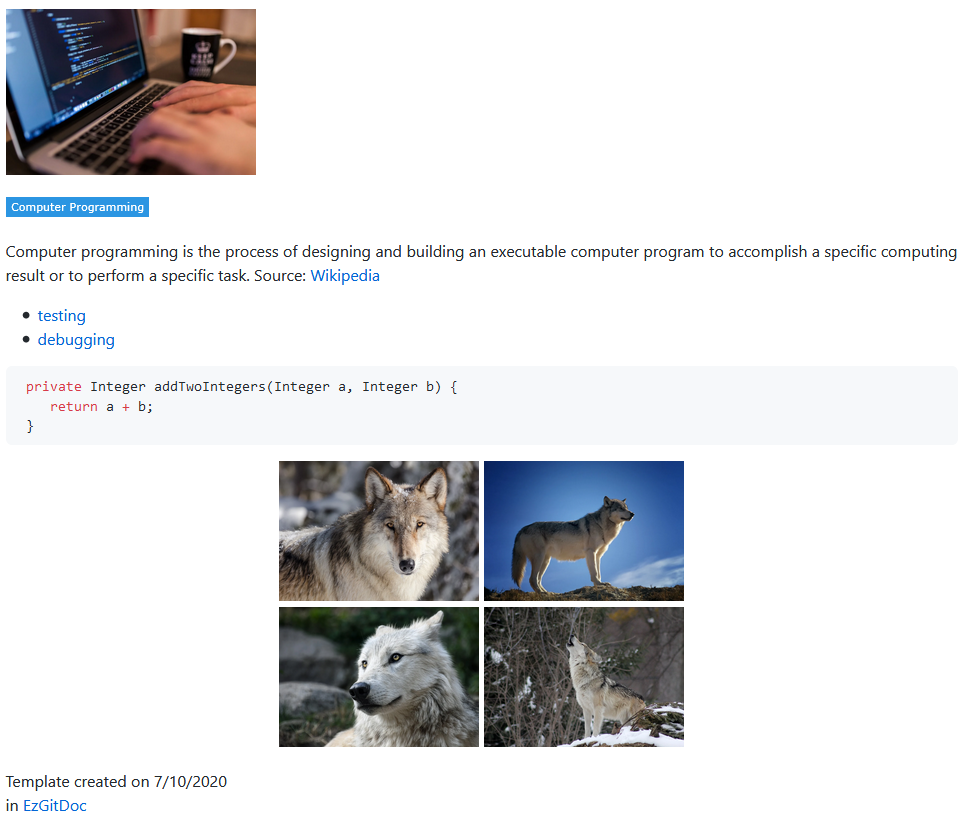
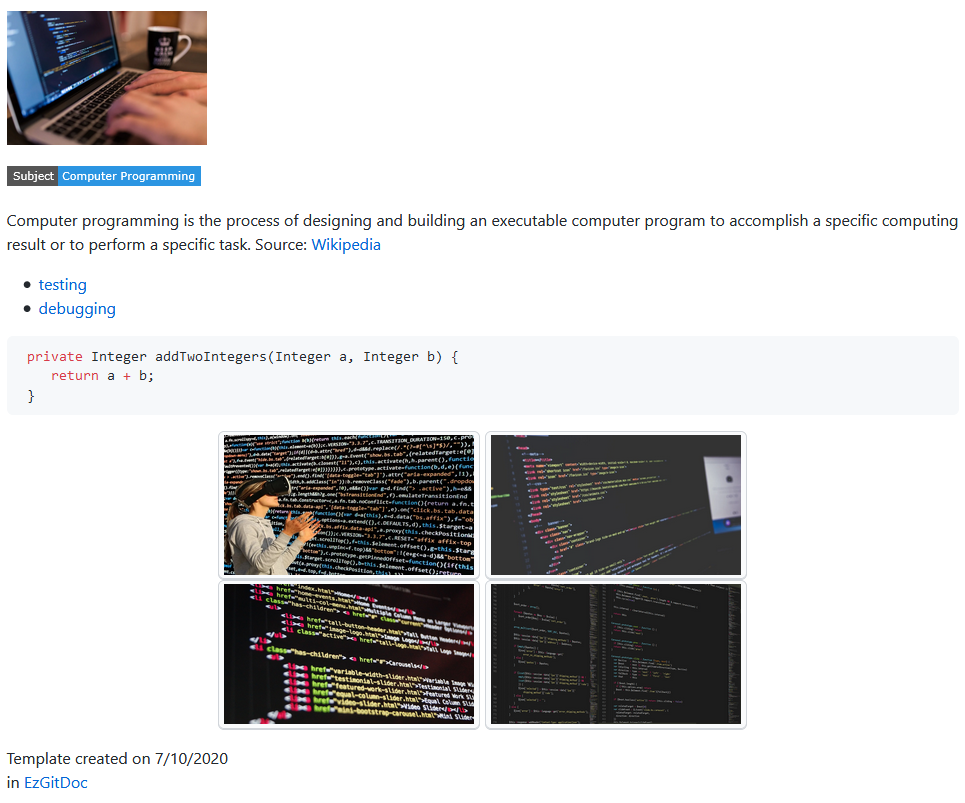
Make changes to doc0,1,2,3

diff --git a/docs/doc0_about.md b/docs/doc0_about.md
@@ -11,7 +11,7 @@ import useBaseUrl from '@docusaurus/useBaseUrl';
 </p>
 
 <p align="justify">
-EzGitDoc is WYSIWYG tool designed to improve Git documentation experience. It allows to generate <code>*.md</code> file structure within projected template at <a href="https://trolit.github.io/EzGitDoc/"><em>https://trolit.github.io/EzGitDoc/</em></a>. You don't need to install anything as the project is setup and ready to use on github-pages. Every element's data can be modified after rendering it on page(except table of images in it's current). EzGitDoc leaves you opportunity to make prototype of your document and fill in data, which later only needs to be polished, reducing the risk of problems and necessity to fight with searching cause of element(s) not being rendered as expected.
+EzGitDoc is open source, WYSIWYG tool designed to improve Git documentation experience. It allows to generate <code>*.md</code> file structure within projected template at <a href="https://trolit.github.io/EzGitDoc/"><em>https://trolit.github.io/EzGitDoc/</em></a>. You don't need to install anything as the project is setup and ready to use on github-pages. Every element's data can be modified after rendering it on page except image/kbd/linked kbd table(still with those table types you can quickly change images resolutions). Make prototype of your document, fill in data whenever you want, get ouput and polish it to your needs. Reduce to 0 the risk of elements not being rendered as expected with EzGitDoc :)
 </p>
 
 ### Pros of EzGitDoc

diff --git a/docs/doc2_demonstration.md b/docs/doc2_demonstration.md
@@ -35,11 +35,11 @@ private Integer addTwoIntegers(Integer a, Integer b) {
 ```
 
 <p align="center">
-<img src="https://place-hold.it/250x140" alt="alt text" width="250" height="140"/> 
-<img src="https://place-hold.it/250x140" alt="alt text" width="250" height="140"/> 
+<kbd><img src="https://place-hold.it/250x140" alt="alt text" width="250" height="140"/></kbd>
+<kbd><img src="https://place-hold.it/250x140" alt="alt text" width="250" height="140"/></kbd>
 <br/> 
-<img src="https://place-hold.it/250x140" alt="alt text" width="250" height="140"/> 
-<img src="https://place-hold.it/250x140" alt="alt text" width="250" height="140"/> 
+<kbd><img src="https://place-hold.it/250x140" alt="alt text" width="250" height="140"/></kbd> 
+<kbd><img src="https://place-hold.it/250x140" alt="alt text" width="250" height="140"/></kbd> 
 </p>
 
 Template created on 7/10/2020 <br/> in <a href="https://github.com/trolit/EzGitDoc">EzGitDoc</a>
@@ -53,13 +53,6 @@ Template created on 7/10/2020 <br/> in <a href="https://github.com/trolit/EzGitD
 
 ### 4. Adjust & commit :)
 
-```
-Changes:
-- increased banner image size 
-- removed subject part from badge
-- filled in images in table and reduced their width
-```
-
 <p align="center">
-<img src={useBaseUrl('img/demonstration/d03.PNG')} alt="EzGitDoc Demonstration - 3" height="450px"/>
+<img src={useBaseUrl('img/demonstration/d03.png')} alt="EzGitDoc Demonstration - 3" height="450px"/>
 </p>

diff --git a/docs/doc1_support.md b/docs/doc1_support.md
@@ -7,7 +7,7 @@ slug: /support
 #### Browser
 
 <p align="justify">
-It is recommended to use modern browser in order to get maximum functionality out of the project. EzGitDoc uses for example classList(HTML DOM property) which is not working on every browser version. According to <a href="https://www.w3schools.com/jsref/prop_element_classlist.asp">w3schools</a> documentation you must have at least Chrome 8, IE10, Firefox 3.6, Safari 5.1 or Opera 11.5 in order to properly use all implemented EzGitDoc functions.
+It is recommended to use modern browser in order to get maximum functionality out of the project. EzGitDoc uses for example classList(HTML DOM property) which is not working on every browser version. According to <a href="https://www.w3schools.com/jsref/prop_element_classlist.asp">w3schools</a> documentation you must have at least Chrome 8, IE10, Firefox 3.6, Safari 5.1 or Opera 11.5 in order to properly use all implemented EzGitDoc functionalities.
 </p>
 
 #### Device

diff --git a/docs/doc3_quickStart.md b/docs/doc3_quickStart.md
@@ -34,6 +34,10 @@ In the bottom part of the sidebar there are 4 buttons(icons) that perform differ
 
 ### 3. Settings
 
+<p align="justify">
+Personalize how EzGitDoc is working via settings panel.
+</p>
+
 <p align="center">
 <img src={useBaseUrl('img/quickStart/3.png')} alt="Quick start - 03" height="400px"/>
 </p>
